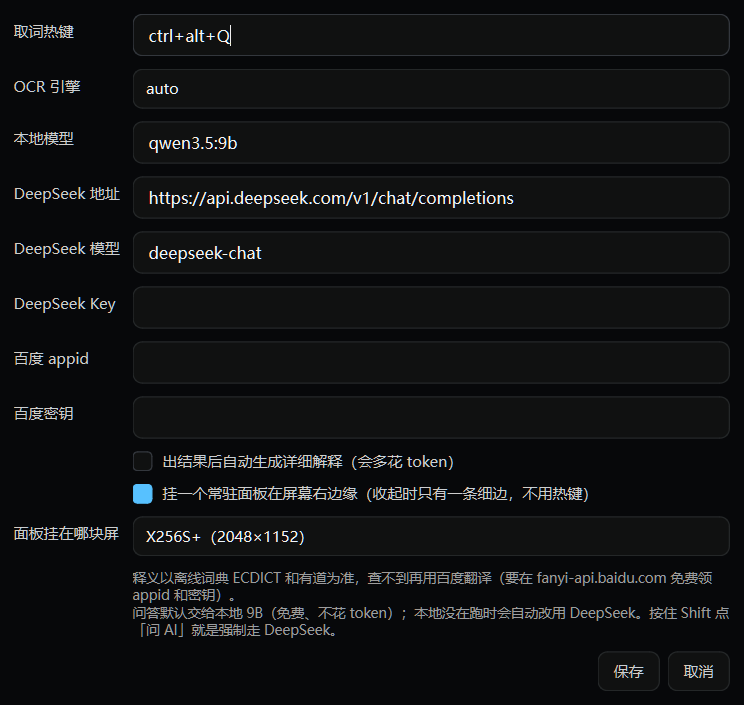
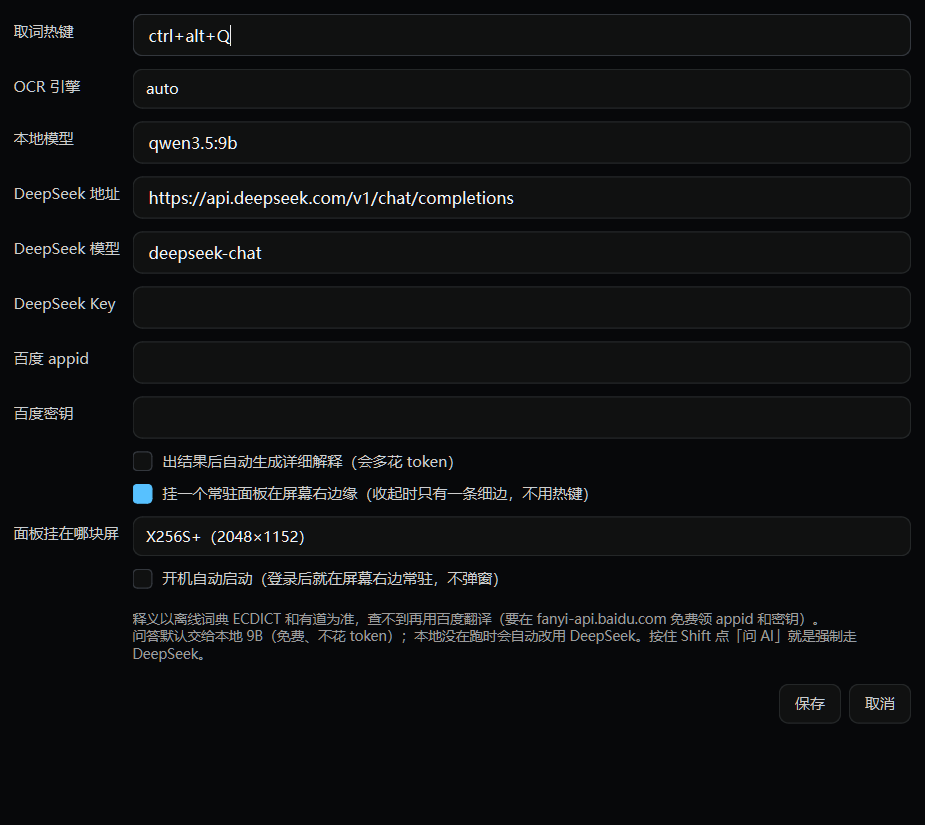
设置里加开机启动开关（HKCU Run 键，用 pythonw 不弹黑框；挪目录后启动时自动改写路径）

diff --git a/src/snapword/gui.py b/src/snapword/gui.py
@@ -1053,6 +1053,14 @@ class Settings(QtWidgets.QDialog):
         self.auto_detail.setChecked(bool(cfg.get("auto_detail")))
         self.dock = QtWidgets.QCheckBox("挂一个常驻面板在屏幕右边缘（收起时只有一条细边，不用热键）")
         self.dock.setChecked(bool((cfg.get("dock") or {}).get("enabled", True)))
+        # 开机启动：状态以注册表为准（HKCU\...\Run 里那条命令在不在），不在 config 里存一份，
+        # 免得两边不一致。winput.autostart_sync() 会在启动时把挪过目录的旧路径改写掉。
+        self.autostart = QtWidgets.QCheckBox("开机自动启动（登录后就在屏幕右边常驻，不弹窗）")
+        try:
+            self.autostart.setChecked(winput.autostart_enabled())
+        except OSError:
+            self.autostart.setEnabled(False)
+            self.autostart.setText(self.autostart.text() + "（这台机器上写不了注册表）")
         # 挂在哪块屏：默认主屏（"" = 主屏）。以前默认"鼠标所在那块屏"，鼠标在副屏时
         # 面板就跑到副屏去了 —— 用户报的"侧边栏跑我副屏上面去了"。
         primary = QtWidgets.QApplication.primaryScreen()
@@ -1079,6 +1087,7 @@ class Settings(QtWidgets.QDialog):
         f.addRow("", self.auto_detail)
         f.addRow("", self.dock)
         f.addRow("面板挂在哪块屏", self.dock_screen)
+        f.addRow("", self.autostart)
         hint = QtWidgets.QLabel(
             "释义以离线词典 ECDICT 和有道为准，查不到再用百度翻译（要在 fanyi-api.baidu.com "
             "免费领 appid 和密钥）。\n"
@@ -1119,6 +1128,10 @@ class Settings(QtWidgets.QDialog):
         d = c.setdefault("dock", {})
         d["enabled"] = self.dock.isChecked()
         d["screen"] = self.dock_screen.currentData() or None
+        try:
+            winput.autostart_set(self.autostart.isChecked())
+        except OSError:
+            traceback.print_exc()       # 写不了注册表也别把"保存"整个搞失败
         return c
 
 
@@ -1400,6 +1413,11 @@ def run(cfg):
     log = install_crash_log(os.path.dirname(cfg["cache"]))
     log.write("\n=== SnapWord 启动 %s (pid %d) ===\n" % (
         time.strftime("%Y-%m-%d %H:%M:%S"), os.getpid()))
+    try:    # 开着开机启动但路径变了（挪过目录、换过 venv）就改写，不然它会静默失效
+        if winput.autostart_sync():
+            log.write("开机启动的路径变了，已改写为 %s\n" % winput.autostart_command())
+    except OSError:
+        traceback.print_exc()
 
     QtWidgets.QApplication.setHighDpiScaleFactorRoundingPolicy(
         QtCore.Qt.HighDpiScaleFactorRoundingPolicy.PassThrough)

diff --git a/src/snapword/winput.py b/src/snapword/winput.py
@@ -211,3 +211,66 @@ class HotkeyThread(threading.Thread):
 
     def stop(self):
         self._stop.set()
+
+
+# --------------------------------------------------------------------------
+# 开机启动：写 HKCU 的 Run 键。不用计划任务、不用 StartUp 文件夹快捷方式 ——
+# 注册表最省事（不需要管理员，开关就是写/删一个值），卸载也干净。
+# --------------------------------------------------------------------------
+_RUN_KEY = r"Software\Microsoft\Windows\CurrentVersion\Run"
+_RUN_NAME = "SnapWord"
+
+
+def autostart_command():
+    """开机要执行的命令行。用 pythonw.exe，不然登录时会先闪一个黑框。"""
+    import sys
+    from pathlib import Path
+    exe = Path(sys.executable)
+    if exe.name.lower() == "python.exe":
+        pyw = exe.with_name("pythonw.exe")
+        if pyw.exists():
+            exe = pyw
+    return '"%s" -m snapword.gui' % exe
+
+
+def autostart_get():
+    """注册表里那条命令；没开就是 None。"""
+    import winreg
+    try:
+        with winreg.OpenKey(winreg.HKEY_CURRENT_USER, _RUN_KEY) as k:
+            val, _ = winreg.QueryValueEx(k, _RUN_NAME)
+            return val or None
+    except OSError:
+        return None
+
+
+def autostart_enabled():
+    return autostart_get() is not None
+
+
+def autostart_sync():
+    """开着但路径变了（挪了目录 / 换了 venv）就改写成现在的命令。
+
+    不做的话用户挪一次文件夹，开机启动就静默失效了。
+    """
+    cur = autostart_get()
+    if cur is None:
+        return False
+    want = autostart_command()
+    if cur != want:
+        autostart_set(True)
+        return True
+    return False
+
+
+def autostart_set(on):
+    import winreg
+    with winreg.CreateKey(winreg.HKEY_CURRENT_USER, _RUN_KEY) as k:
+        if on:
+            winreg.SetValueEx(k, _RUN_NAME, 0, winreg.REG_SZ, autostart_command())
+        else:
+            try:
+                winreg.DeleteValue(k, _RUN_NAME)
+            except FileNotFoundError:
+                pass
+    return autostart_enabled() == bool(on)

diff --git a/tests/test_core.py b/tests/test_core.py
@@ -351,6 +351,34 @@ def test_ocr_bench_classifies_what_went_wrong():
         assert have == want, (expect, got, have, want)
 
 
+def test_autostart_round_trip_leaves_registry_as_it_was():
+    """开关一次要能干净地还原 —— 这个测试动的是真的 HKCU\\...\\Run。
+
+    最要紧的是**别把用户自己开的开机启动搞没**：所以先把原状态记下来，测完还原。
+    """
+    if os.name != "nt":
+        return
+    import winreg
+    from snapword import winput
+
+    before = winput.autostart_get()
+    try:
+        assert winput.autostart_set(True) is True
+        assert winput.autostart_enabled() is True
+        cmd = winput.autostart_get()
+        assert "pythonw.exe" in cmd.lower(), cmd        # 开机启动不能弹黑框
+        assert "-m snapword.gui" in cmd, cmd
+        assert winput.autostart_set(False) is True
+        assert winput.autostart_enabled() is False
+        # 删一个本来就不存在的值也不能炸
+        assert winput.autostart_set(False) is True
+    finally:
+        winput.autostart_set(before is not None)        # 还原
+        if before is not None:
+            with winreg.CreateKey(winreg.HKEY_CURRENT_USER, winput._RUN_KEY) as k:
+                winreg.SetValueEx(k, winput._RUN_NAME, 0, winreg.REG_SZ, before)
+
+
 TESTS = [(n, f) for n, f in sorted(globals().items()) if n.startswith("test_") and callable(f)]
 
 
